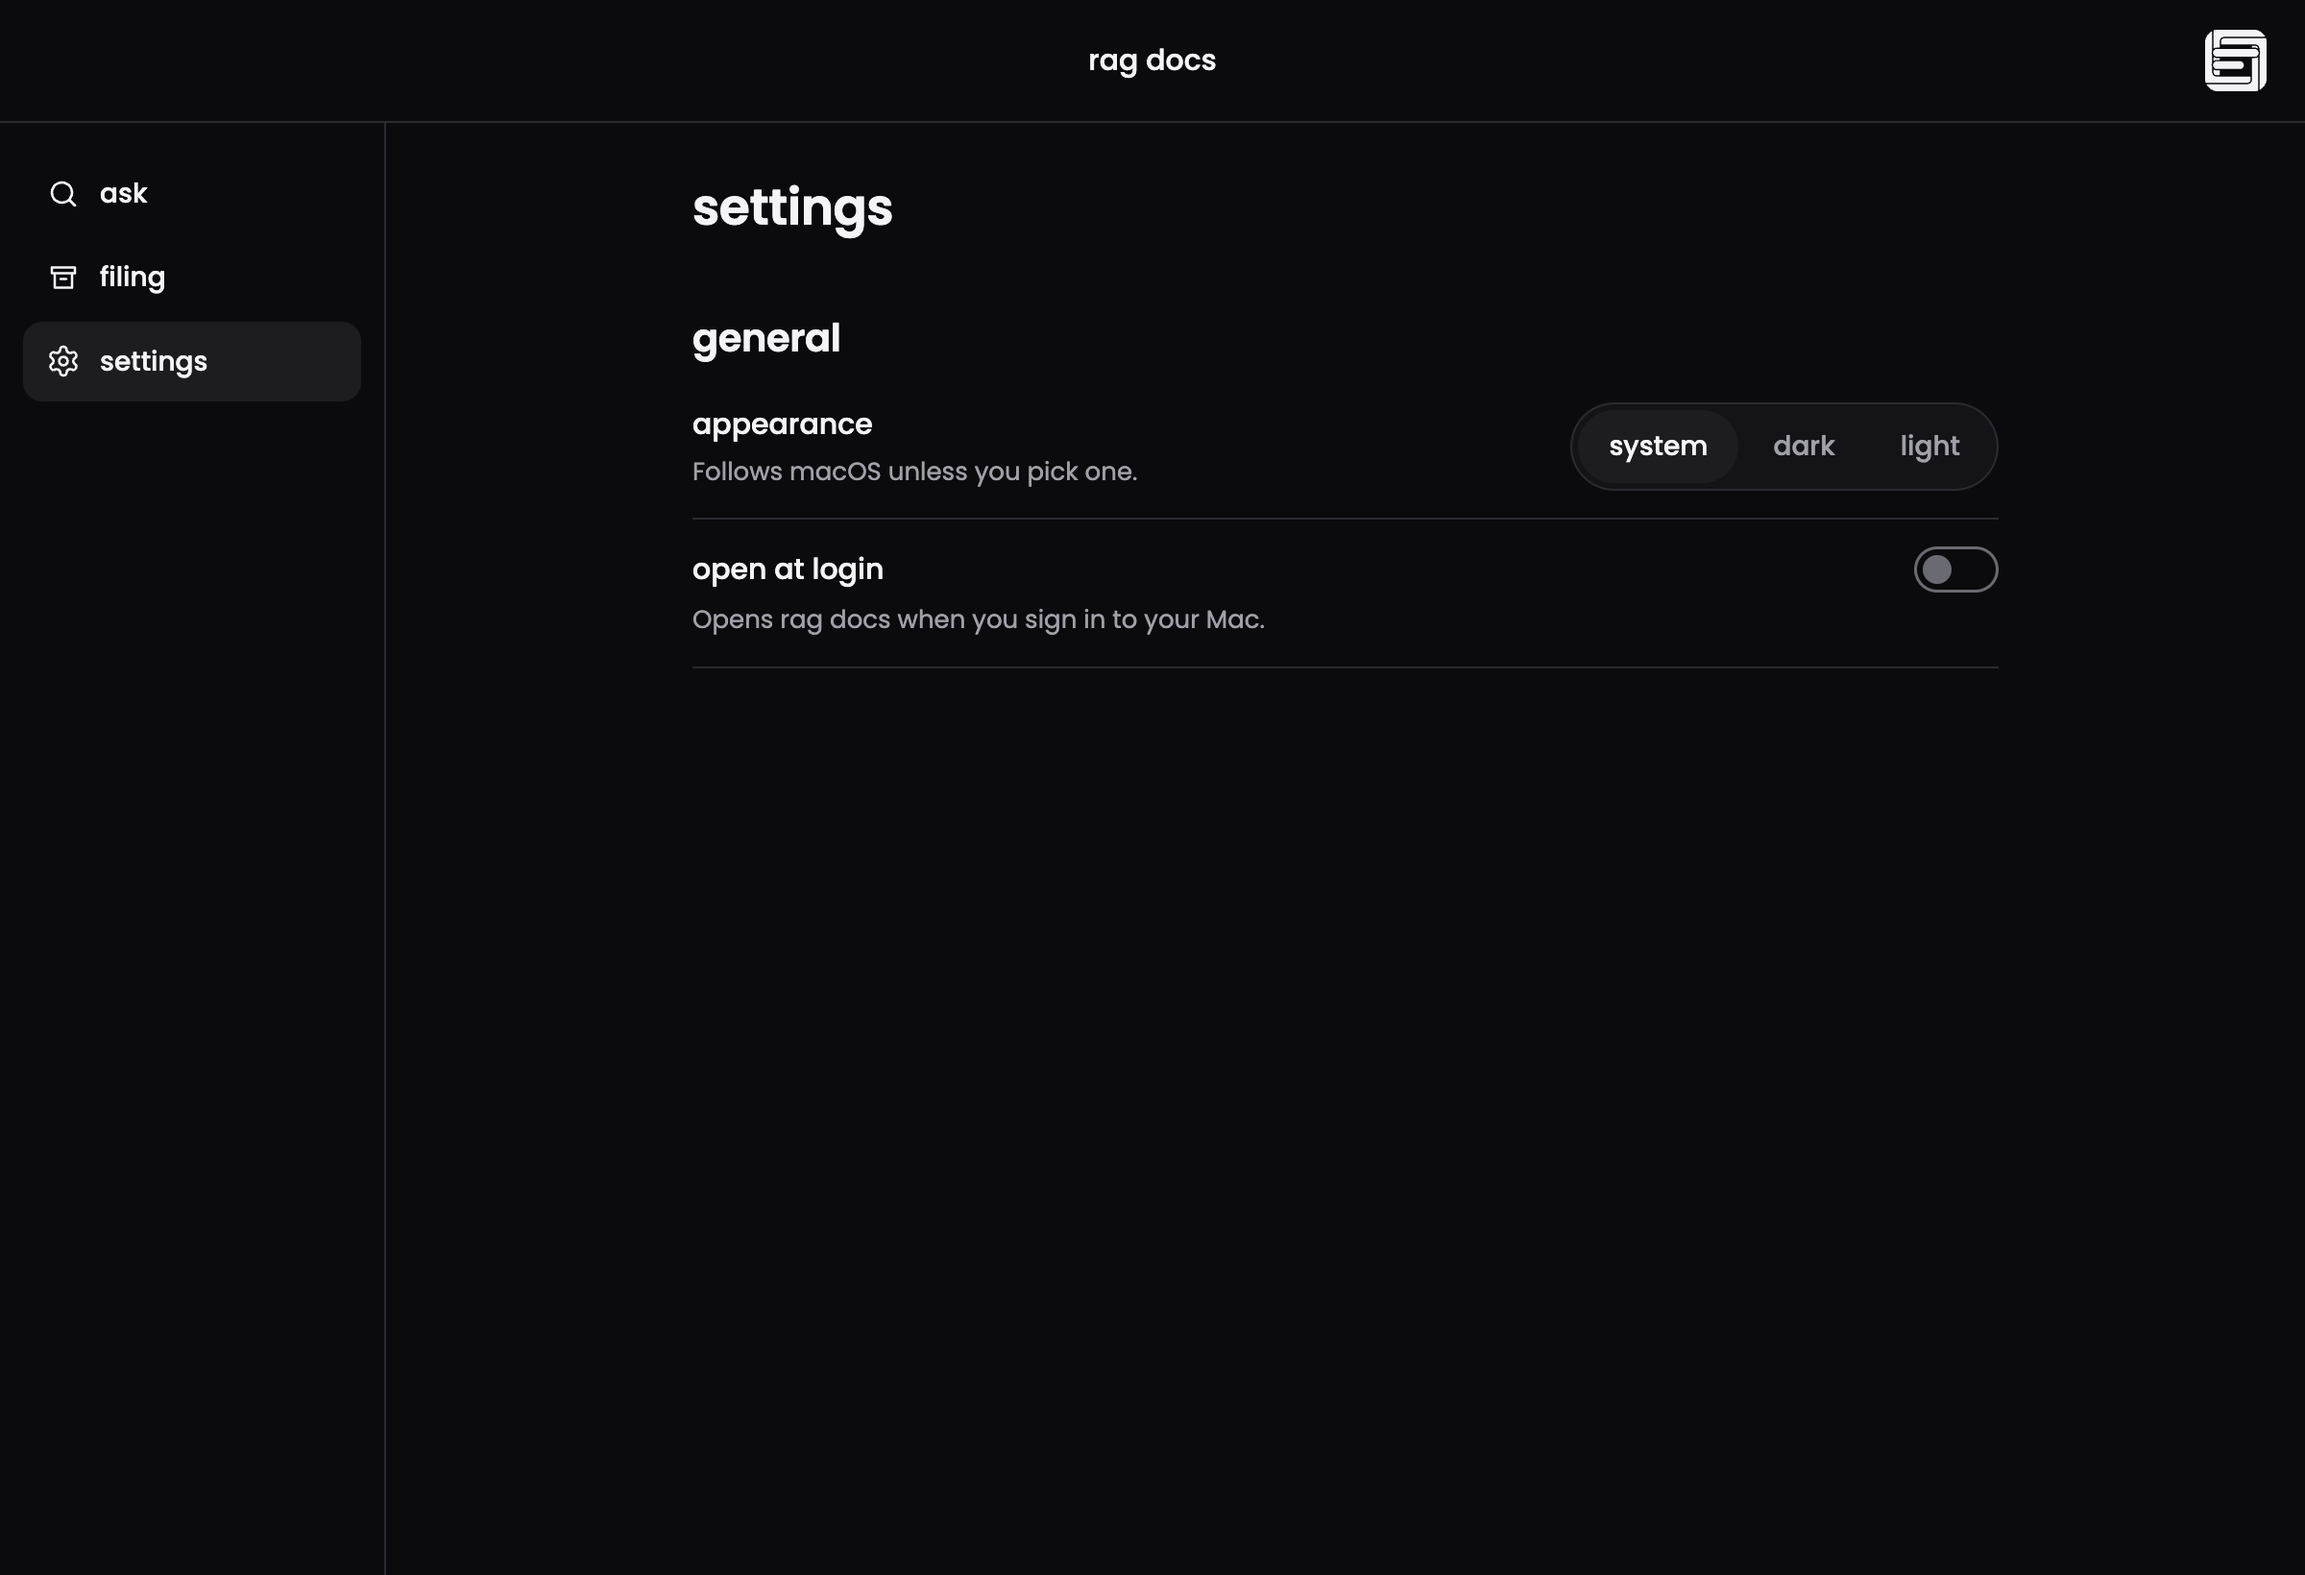
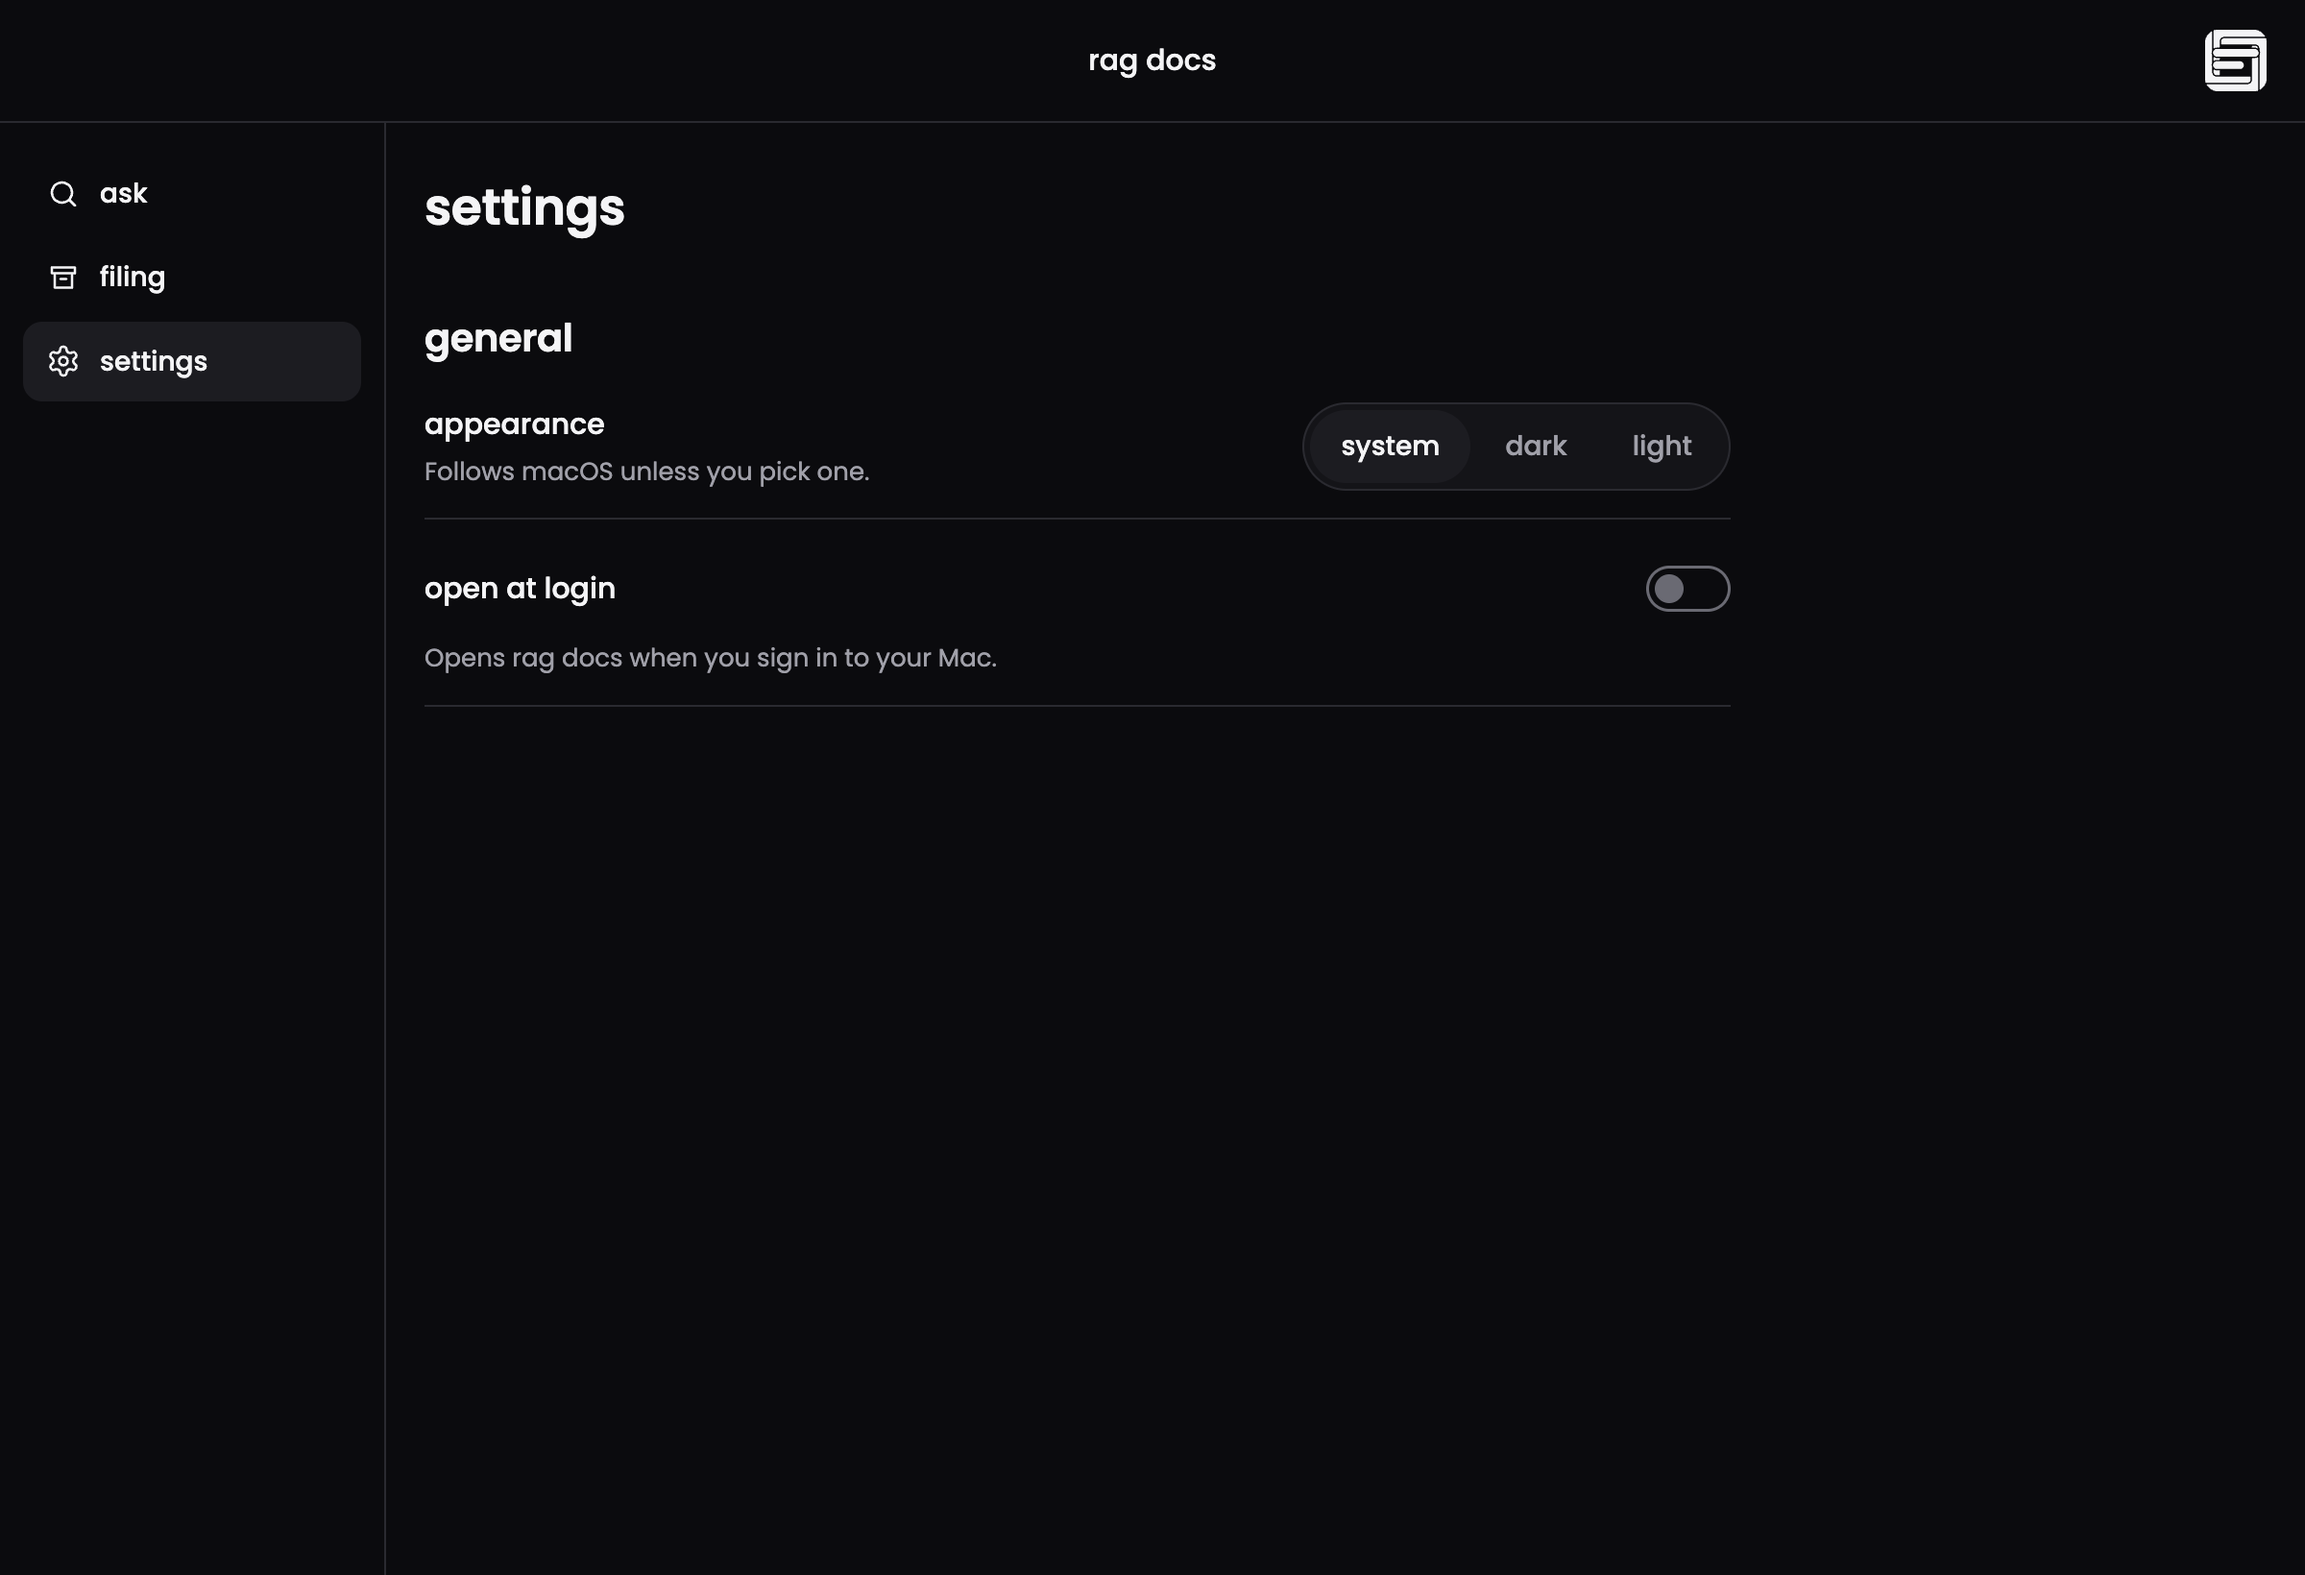
desktop: label the login switch, put settings after the sidebar, show the bar in narrow ask shots (finished by CTO)
Review of PR #14: the open-at-login switch is now inside a 44px label row
(named, and the label toggles it), the settings article no longer centres
itself with auto margins, and the 360px ask shot scrolls back to the top.
Shots now fail if a top-of-page capture does not show the window title.

diff --git a/desktop/src/main.ts b/desktop/src/main.ts
@@ -420,13 +420,15 @@ async function runSmoke(): Promise<void> {
 
 		// Open at login reflects the real (here in-memory) login item: off at start, set by the switch,
 		// and a change made outside the app is picked up on the next focus without re-writing our file.
+		// The switch is named by its label, and clicking the label text toggles it.
 		const loginOffDefault = memoryLoginItem?.openAtLogin === false;
-		await drive(browser, `await d.click('#loginSwitch');`);
+		const loginNamed = (await drive(browser, `return [...d.find('#loginSwitch').labels].map((l) => l.textContent.trim()).join(' ') === 'open at login';`)) === true;
+		await drive(browser, `await d.click('.switchrow .lbl');`);
 		const loginSet = memoryLoginItem?.openAtLogin === true;
 		if (memoryLoginItem) memoryLoginItem.openAtLogin = false;
 		await drive(browser, `window.dispatchEvent(new Event('focus')); await d.settle();`);
 		const loginRepainted = (await drive(browser, `return d.find('#loginSwitch').checked === false;`)) as boolean;
-		result.openAtLoginOk = loginOffDefault && loginSet && loginRepainted;
+		result.openAtLoginOk = loginOffDefault && loginNamed && loginSet && loginRepainted;
 
 		const title = browser.getTitle();
 		const own = isOwnFile(browser.webContents.getURL(), INDEX_URL);
@@ -470,7 +472,7 @@ const SHOTS: Shot[] = [
 	{ name: 'filing-preview', scenario: 'library', width: 1200, height: 820, steps: `${RENAME_AND_ADD} await d.click('#resortButton');` },
 	{ name: 'filing-small', scenario: 'library', width: 360, height: 780, steps: `${OPEN_FILING} await d.pick('Finance');` },
 	{ name: 'filing-small-form', scenario: 'library', width: 360, height: 780, steps: `${OPEN_FILING} await d.pick('Finance');`, scrollTo: '#detailPane' },
-	{ name: 'ask-small', scenario: 'library', width: 360, height: 780, steps: ASK_STEPS },
+	{ name: 'ask-small', scenario: 'library', width: 360, height: 780, steps: ASK_STEPS, scrollTo: '#appBar' },
 	{ name: 'settings', scenario: 'library', width: 1200, height: 820, steps: OPEN_SETTINGS },
 	{ name: 'settings-small', scenario: 'library', width: 360, height: 780, steps: OPEN_SETTINGS },
 ];
@@ -497,6 +499,11 @@ async function runShots(): Promise<void> {
 				await reload;
 				await drive(browser, shot.steps);
 				if (shot.scrollTo) await drive(browser, `d.find('${shot.scrollTo}').scrollIntoView(); await d.settle();`);
+				// Every shot that starts at the top of the page has to show the window title.
+				if (!shot.scrollTo || shot.scrollTo === '#appBar') {
+					const visible = await drive(browser, `const t = d.find('#appTitle').getBoundingClientRect(); return t.top >= 0 && t.bottom <= innerHeight;`);
+					if (visible !== true) throw new Error(`${shot.name}-${mode}: the window title is not in view`);
+				}
 				const image = await browser.webContents.capturePage();
 				writeFileSync(join(out, `${shot.name}-${mode}.png`), image.toPNG());
 				rmSync(dir, { recursive: true, force: true });

diff --git a/desktop/test/renderer.test.ts b/desktop/test/renderer.test.ts
@@ -99,3 +99,20 @@ test('screenshots cover the ask, filing and settings states in light and dark', 
 		}
 	}
 });
+
+test('the open-at-login switch is named by a 44px label row that also toggles it', () => {
+	const html = readFileSync(join(RENDERER, 'index.html'), 'utf8');
+	const css = readFileSync(join(RENDERER, 'app.css'), 'utf8');
+	const row = html.match(/<label class="switchrow" for="loginSwitch">([\s\S]*?)<\/label>/);
+	assert.ok(row, 'switch is not inside its label');
+	assert.match(row[1], /<span class="lbl">open at login<\/span>/);
+	assert.match(row[1], /<input id="loginSwitch"[^>]*role="switch"[^>]*aria-describedby="loginHelper"/);
+	assert.match(css, /\.switchrow \{[^}]*min-height: 44px;/);
+});
+
+test('the settings article sits right after the sidebar, not centred', () => {
+	const css = readFileSync(join(RENDERER, 'app.css'), 'utf8');
+	const body = css.match(/\.settings-body \{([^}]*)\}/);
+	assert.ok(body);
+	assert.doesNotMatch(body[1], /margin: 0 auto/);
+});

diff --git a/desktop/renderer/index.html b/desktop/renderer/index.html
@@ -167,10 +167,10 @@
           </div>
 
           <div class="srow loginrow">
-            <div class="slabel">
+            <label class="switchrow" for="loginSwitch">
               <span class="lbl">open at login</span>
-            </div>
-            <input id="loginSwitch" class="switch" type="checkbox" role="switch" aria-describedby="loginHelper" />
+              <input id="loginSwitch" class="switch" type="checkbox" role="switch" aria-describedby="loginHelper" />
+            </label>
             <span id="loginHelper" class="helper">Opens rag docs when you sign in to your Mac.</span>
           </div>
         </section>

diff --git a/desktop/renderer/app.css b/desktop/renderer/app.css
@@ -798,7 +798,6 @@ button.row:hover {
   flex: 999 1 420px;
   min-width: 0;
   max-width: 720px;
-  margin: 0 auto;
   flex-direction: column;
   gap: var(--s6);
   padding: var(--s5) 20px var(--s6);
@@ -847,6 +846,16 @@ button.row:hover {
 }
 
 /* open at login: a 44px row (label left, switch right) with its helper drawn below the row. */
+.switchrow {
+  display: flex;
+  flex: 1 1 100%;
+  align-items: center;
+  justify-content: space-between;
+  gap: 24px;
+  min-height: 44px;
+  cursor: pointer;
+}
+
 .loginrow .helper {
   flex-basis: 100%;
   margin-top: -8px;
